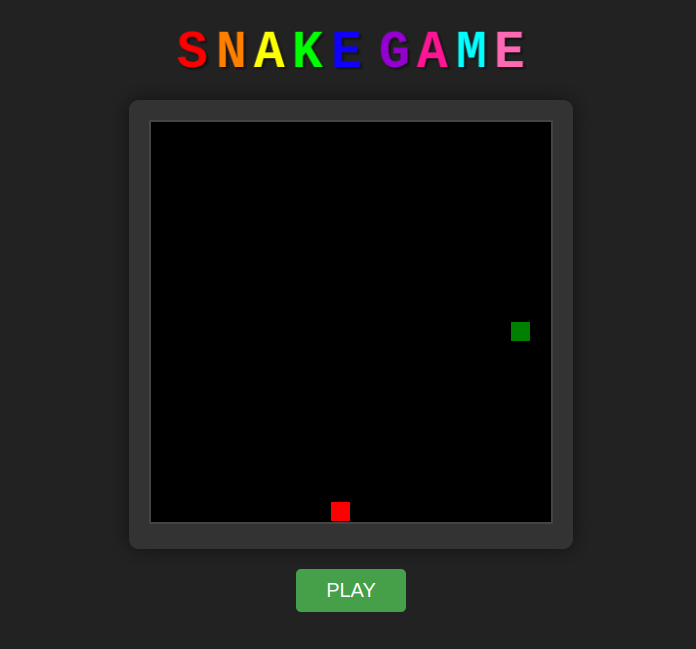
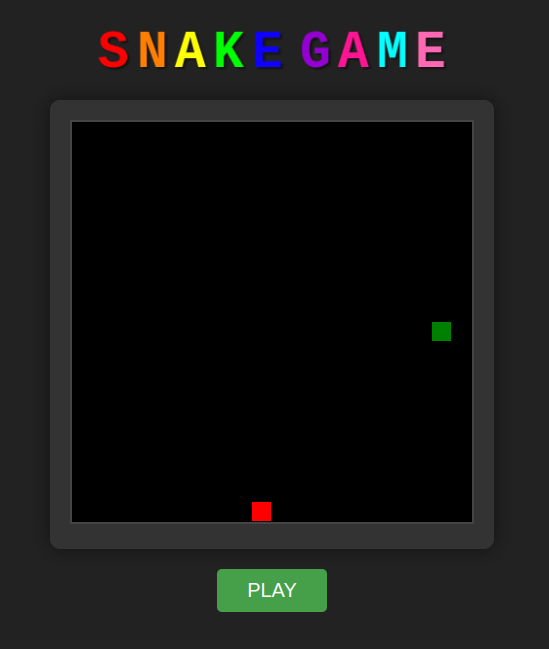
feat: Actualización de los screenshots previos. Se ha generado "_imagenes.md" para agrupar resumidamente las imágenes utilizadas en el proyecto y se han ajustado los tamaños de varias imágenes para mejorar la presentación en en el README

diff --git a/snake_game/images/_imagenes.md b/snake_game/images/_imagenes.md
@@ -1,0 +1,19 @@
+# 📸 Screenshots del Juego SNAKE
+
+Esta carpeta contiene los screenshots de los distintos desarrollos del juego SNAKE realizados por diferentes modelos de lenguaje (LLMs). Cada captura muestra la interfaz y el aspecto visual de la implementación generada por cada modelo.
+
+## 🖼 Galería de Implementaciones
+
+| GPT-4 | GPT-5 Codex | Claude 3.5 | Claude 4.5 |
+|:-----:|:----------:|:---------:|:---------:|
+| <img src="GPT-4o.png" height="300" alt="GPT-4"> | <img src="GPT_5_Codex.png" height="300" alt="GPT-5 Codex"> | <img src="Claude_3.5.png" height="300" alt="Claude 3.5"> | <img src="Claude_4.5.png" height="300" alt="Claude 4.5"> |
+
+| Grok Code Fast1 | DeepSeek R1 | Gemini 2.5 Pro | Gemini 2.0 |
+|:-----:|:----------:|:---------:|:---------:|
+| <img src="Grok_Code_Fast1.png" height="300" alt="Grok Code Fast1"> | <img src="DeepSeek_R1.png" height="300" alt="DeepSeek R1"> | <img src="Gemini_2.5_Pro.png" height="300" alt="Gemini 2.5 Pro"> | <img src="Gemini_2.0_Flash.png" height="300" alt="Gemini 2.0"> |
+
+| Llama 3.3 | Phi 4 | Qwen 2.5 |
+|:-----:|:----------:|:---------:|
+| <img src="Llama3.3-70b.png" height="300" alt="Llama 3.3"> | <img src="Phi4.png" height="300" alt="Phi 4"> | <img src="Qwen2.5-Coder-32b.png" height="300" alt="Qwen 2.5"> |
+
+---
